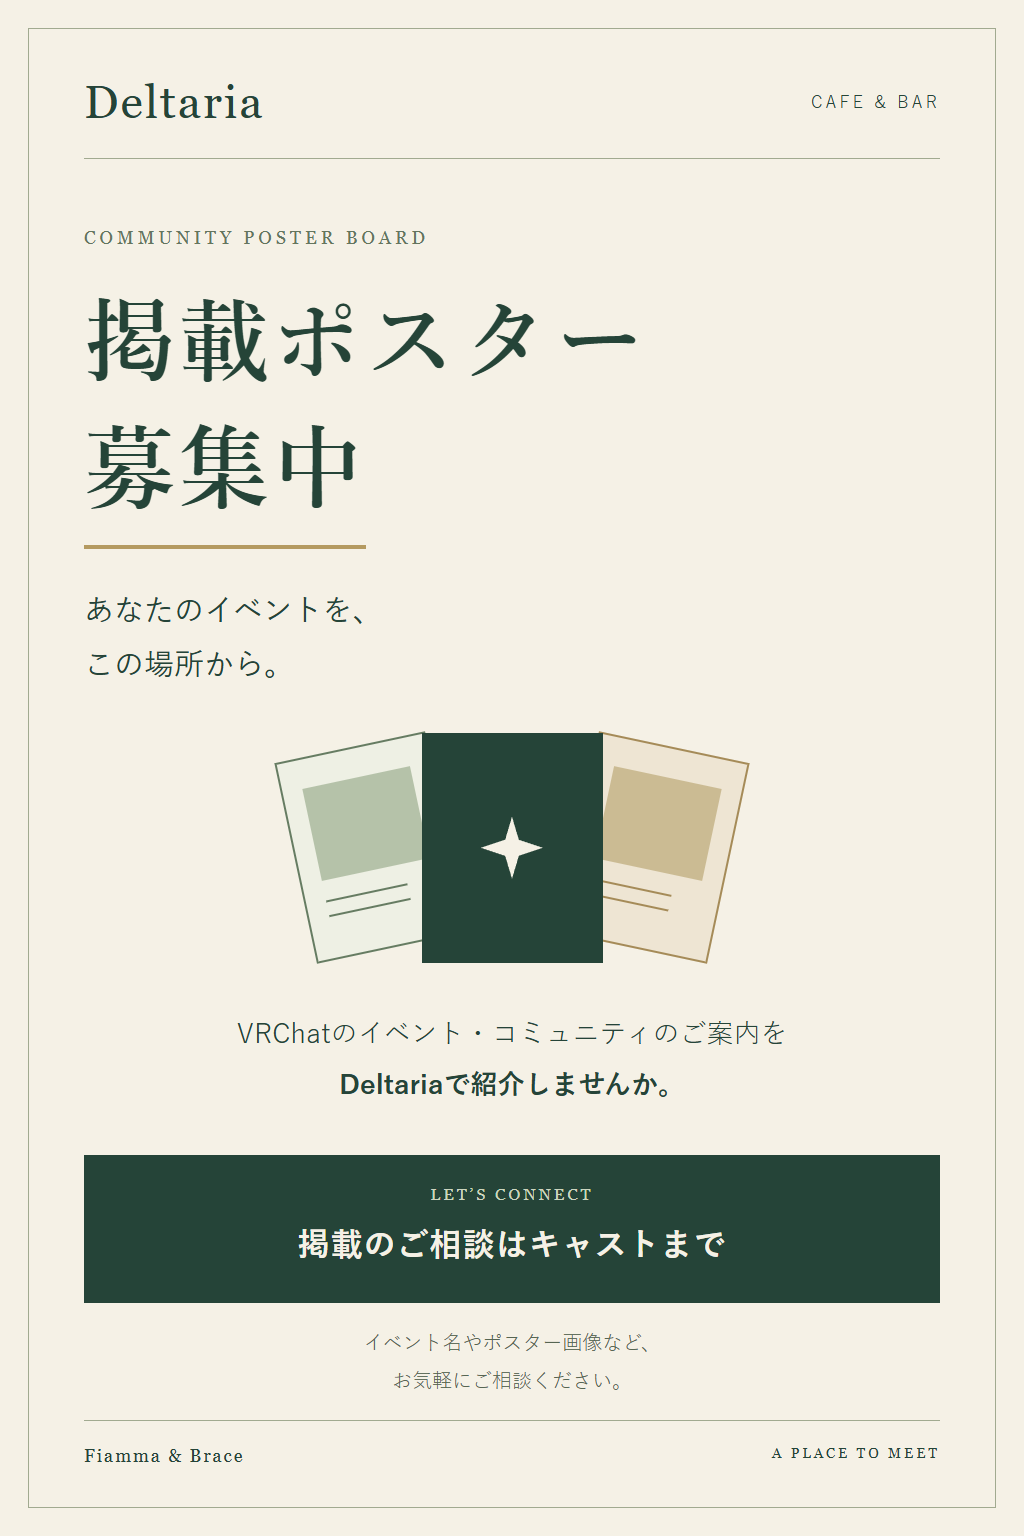
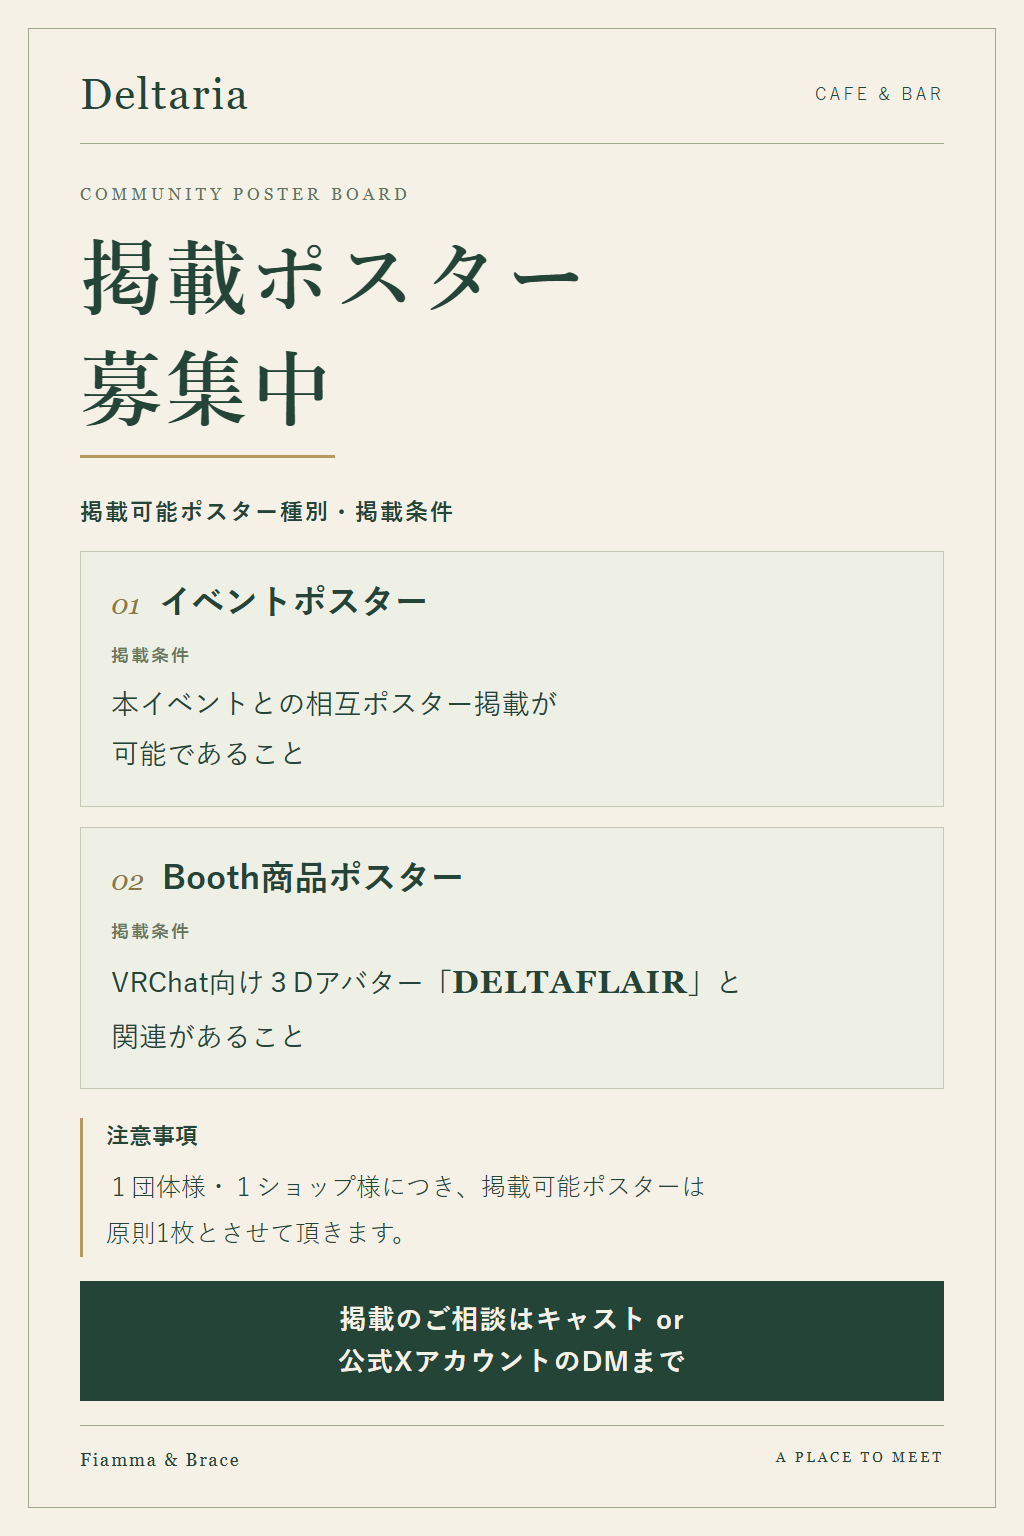
Add poster eligibility and cast or official X DM contact

diff --git a/poster-recruitment.html b/poster-recruitment.html
@@ -1,19 +1,19 @@
 <!doctype html>
-<html lang="ja">
-<head><meta charset="utf-8"><meta name="viewport" content="width=device-width,initial-scale=1">
+<html lang="ja"><head><meta charset="utf-8"><meta name="viewport" content="width=device-width,initial-scale=1">
 <title>掲載ポスター募集中 — Cafe &amp; Bar Deltaria</title>
 <style>
-*{box-sizing:border-box}html,body{margin:0;background:#e6e4da}body{color:#254438;font-family:"Yu Gothic","Meiryo",sans-serif}main{width:1024px;height:1536px;background:#f5f1e6;position:relative;padding:76px 84px;overflow:hidden}main:before{content:"";position:absolute;inset:28px;border:1px solid #a1aa90;pointer-events:none}.brand{display:flex;align-items:center;justify-content:space-between;border-bottom:1px solid #a1aa90;padding-bottom:30px}.brand strong{font:46px Georgia,serif;letter-spacing:2px}.brand span{font-size:17px;letter-spacing:3px}.eyebrow{font:18px Georgia,serif;letter-spacing:4px;margin:68px 0 32px;color:#64755e}h1{font-family:"Yu Mincho","YuMincho",serif;font-weight:600;font-size:91px;line-height:1.4;letter-spacing:3px;margin:0}.accent{display:inline-block;border-bottom:4px solid #b49a60;padding-bottom:10px}.intro{font-size:30px;font-weight:500;line-height:1.8;margin:35px 0 0}.illustration{height:272px;position:relative;margin:20px 0 24px;display:flex;align-items:center;justify-content:center}.paper{position:absolute;width:154px;height:205px;border:2px solid #667c62;background:#eef0e4;padding:29px 20px}.paper:before{content:"";display:block;height:94px;background:#b5c2a9}.paper:after{content:"";display:block;width:75%;height:13px;margin-top:20px;border-top:2px solid #667c62;border-bottom:2px solid #667c62}.left{transform:translateX(-141px) rotate(-12deg)}.right{transform:translateX(141px) rotate(12deg);background:#eee5d3;border-color:#a58b58}.right:before{background:#cbbb93}.right:after{border-color:#a58b58}.middle{width:181px;height:230px;background:#254438;border-color:#254438;z-index:1;display:flex;align-items:center;justify-content:center}.middle:before,.middle:after{display:none}.star{width:62px;height:62px;background:#f5f1e6;clip-path:polygon(50% 0,61% 37%,100% 50%,61% 63%,50% 100%,39% 63%,0 50%,39% 37%)}.message{text-align:center;font-size:27px;line-height:1.9;margin:0}.message strong{font-weight:700}.contact{margin-top:45px;background:#254438;color:#f5f1e6;text-align:center;padding:30px 22px 32px}.contact small{display:block;font:16px Georgia,serif;letter-spacing:3px;color:#ccd5bf;margin-bottom:15px}.contact p{font-size:32px;font-weight:700;letter-spacing:1px;margin:0}.note{font-size:20px;line-height:1.9;text-align:center;margin:21px 0 0;color:#566552}footer{position:absolute;bottom:70px;left:84px;right:84px;border-top:1px solid #a1aa90;padding-top:24px;display:flex;justify-content:space-between;font:18px Georgia,serif;letter-spacing:2px}footer span:last-child{font-size:14px;letter-spacing:3px}
+*{box-sizing:border-box}html,body{margin:0;background:#e6e4da}body{color:#254438;font-family:"Yu Gothic","Meiryo",sans-serif}main{width:1024px;height:1536px;background:#f5f1e6;position:relative;padding:70px 80px;overflow:hidden}main:before{content:"";position:absolute;inset:28px;border:1px solid #a1aa90;pointer-events:none}.brand{display:flex;align-items:center;justify-content:space-between;border-bottom:1px solid #a1aa90;padding-bottom:25px}.brand strong{font:43px Georgia,serif;letter-spacing:2px}.brand span{font-size:17px;letter-spacing:3px}.eyebrow{font:17px Georgia,serif;letter-spacing:4px;margin:40px 0 22px;color:#64755e}h1{font-family:"Yu Mincho","YuMincho",serif;font-weight:600;font-size:82px;line-height:1.35;letter-spacing:3px;margin:0}.accent{display:inline-block;border-bottom:3px solid #b49a60;padding-bottom:8px}.section-label{font-size:23px;font-weight:700;letter-spacing:2px;margin:36px 0 20px}.conditions{display:grid;gap:20px}.condition{border:1px solid #c4c9b5;background:#eef0e6;padding:25px 30px 26px}.condition h2{font-size:34px;font-weight:700;line-height:1.5;margin:0 0 12px}.number{font:italic 28px Georgia,serif;color:#8b7746;margin-right:18px}.condition p{font-size:28px;font-weight:500;line-height:1.8;margin:0}.label{display:block;font-size:18px;font-weight:700;color:#68765d;letter-spacing:2px;margin-bottom:6px}.condition strong{font-family:Georgia,serif;font-size:32px;letter-spacing:1px;font-weight:700}.notice{margin-top:29px;padding-left:23px;border-left:3px solid #b49a60}.notice h2{font-size:23px;margin:0 0 10px}.notice p{font-size:25px;line-height:1.85;margin:0}.contact{margin-top:24px;background:#254438;color:#f5f1e6;text-align:center;padding:18px 12px}.contact p{font-size:27px;line-height:1.55;font-weight:700;letter-spacing:1px;margin:0}footer{position:absolute;bottom:66px;left:80px;right:80px;border-top:1px solid #a1aa90;padding-top:23px;display:flex;justify-content:space-between;font:18px Georgia,serif;letter-spacing:2px}footer span:last-child{font-size:14px;letter-spacing:3px}
 @media print{@page{size:1024px 1536px;margin:0}body{background:none}main{print-color-adjust:exact}}
-</style></head>
-<body><main aria-label="Deltaria 掲載ポスター募集">
+</style></head><body><main aria-label="Deltaria 掲載ポスター募集と掲載条件">
 <header class="brand"><strong>Deltaria</strong><span>CAFE &amp; BAR</span></header>
 <p class="eyebrow">COMMUNITY POSTER BOARD</p>
 <h1>掲載ポスター<br><span class="accent">募集中</span></h1>
-<p class="intro">あなたのイベントを、<br>この場所から。</p>
-<div class="illustration" aria-hidden="true"><div class="paper left"></div><div class="paper right"></div><div class="paper middle"><div class="star"></div></div></div>
-<p class="message">VRChatのイベント・コミュニティのご案内を<br><strong>Deltariaで紹介しませんか。</strong></p>
-<section class="contact"><small>LET’S CONNECT</small><p>掲載のご相談はキャストまで</p></section>
-<p class="note">イベント名やポスター画像など、<br>お気軽にご相談ください。</p>
+<p class="section-label">掲載可能ポスター種別・掲載条件</p>
+<div class="conditions">
+<section class="condition"><h2><span class="number">01</span>イベントポスター</h2><p><span class="label">掲載条件</span>本イベントとの相互ポスター掲載が<br>可能であること</p></section>
+<section class="condition"><h2><span class="number">02</span>Booth商品ポスター</h2><p><span class="label">掲載条件</span>VRChat向け３Dアバター「<strong>DELTAFLAIR</strong>」と<br>関連があること</p></section>
+</div>
+<section class="notice"><h2>注意事項</h2><p>１団体様・１ショップ様につき、掲載可能ポスターは<br>原則1枚とさせて頂きます。</p></section>
+<section class="contact"><p>掲載のご相談はキャスト or<br>公式XアカウントのDMまで</p></section>
 <footer><span>Fiamma &amp; Brace</span><span>A PLACE TO MEET</span></footer>
 </main></body></html>
